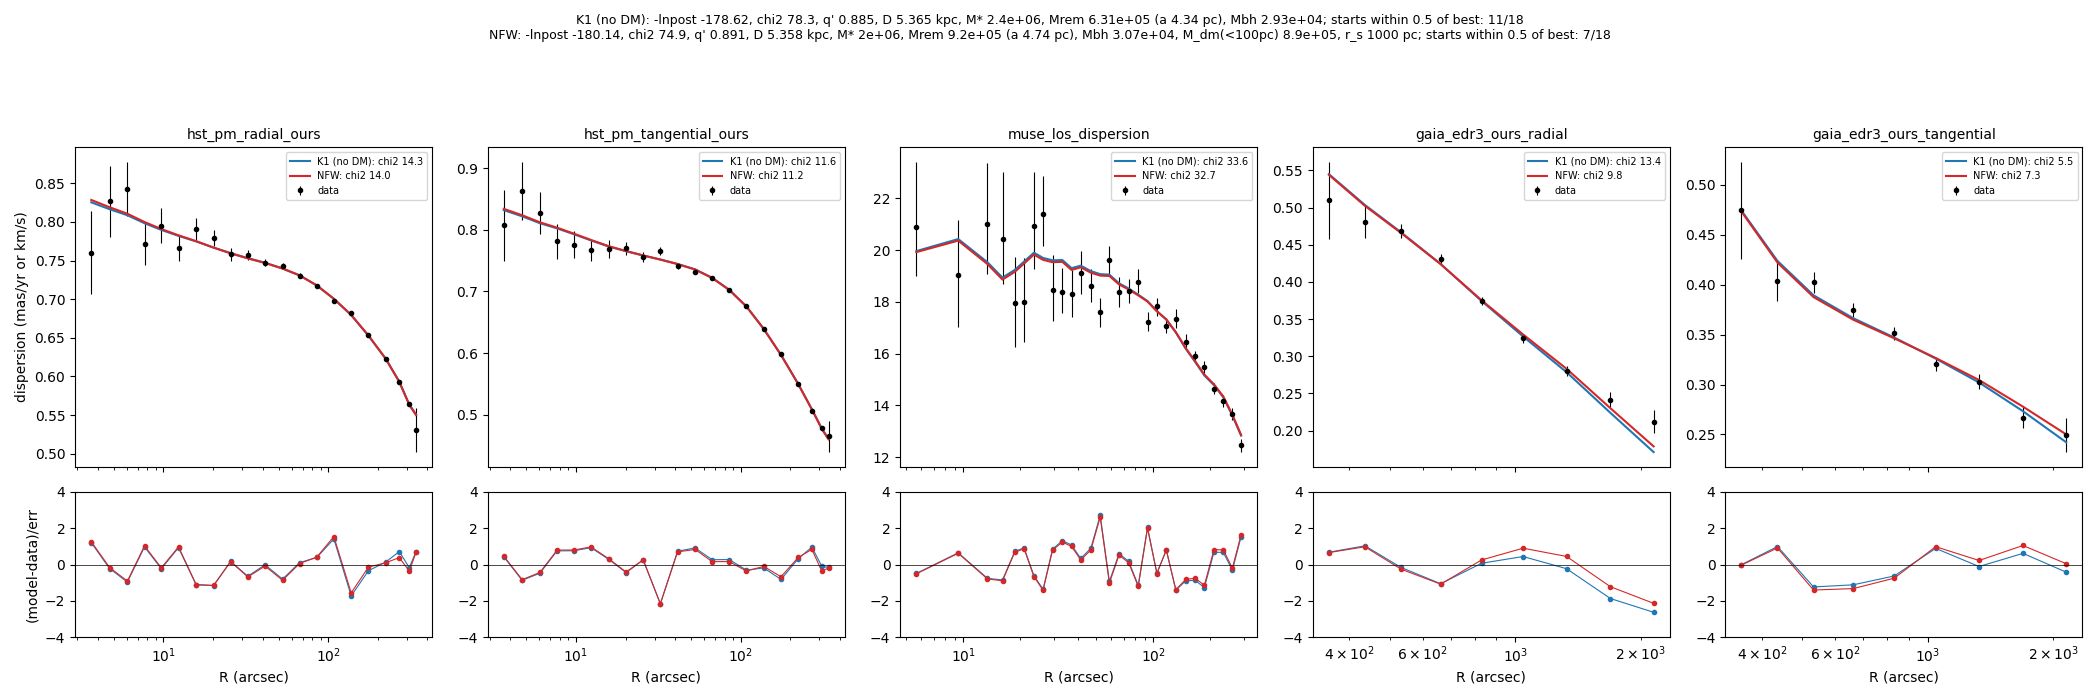
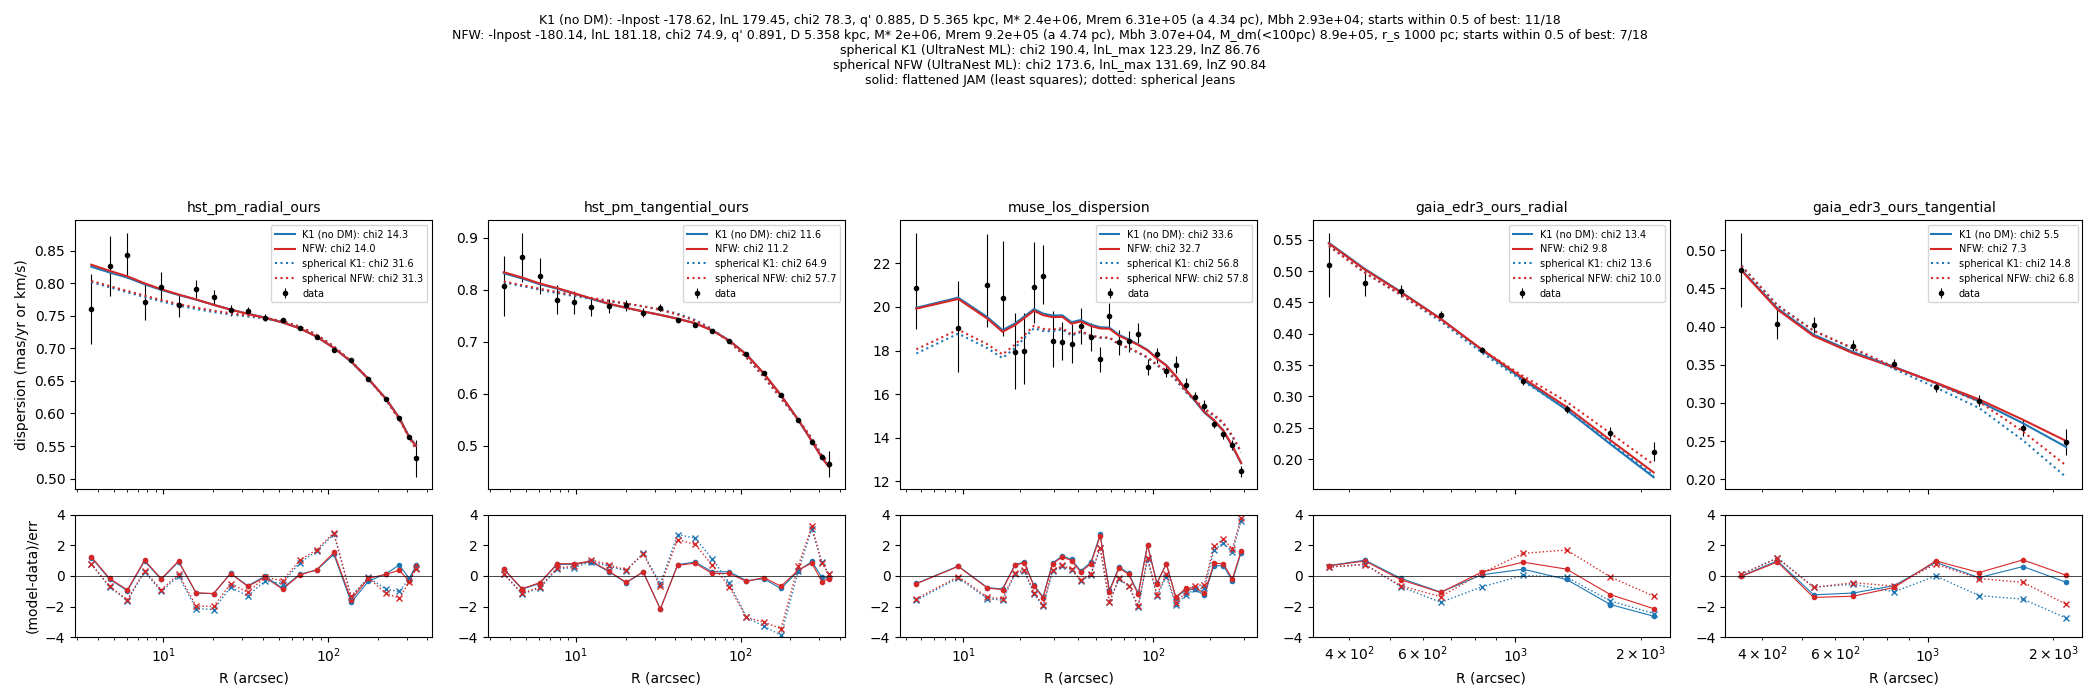
Real-data JAM report: add spherical Jeans K1/NFW ML fits and residuals

diff --git a/bin/report_jamfit_real.py b/bin/report_jamfit_real.py
@@ -1,5 +1,6 @@
 #!/usr/bin/env python3
-"""Data / model / residual plot of the real-data JAM least-squares fits, K1 vs NFW (2026-11-14).
+"""Data / model / residual plot of the real-data JAM least-squares fits, K1 vs NFW, with the spherical Jeans K1/NFW
+maximum-likelihood fits to the same data (2026-11-14).
 
 Reads results/rotation/jamfit_real_K1_lsq.json and jamfit_real_NFW_lsq.json (bin/fit_jam_halo.py --data real
 --method lsq); radii and errors come from tune_jam_to_data.Setup (the corrected real data the fits used; ~3 GB).
@@ -21,16 +22,33 @@ import matplotlib.pyplot as plt
 import numpy as np
 
 import jam_halo_models as H
+from ocen_dm.kinematics import FitProblem
+from ocen_dm.kinematics.report import load_run_metadata, problem_for
+from ocen_dm.kinematics.run_io import family_config, family_from_config
 from tune_jam_to_data import Setup
 
 FITS = {"K1 (no DM)": "jamfit_real_K1_lsq.json", "NFW": "jamfit_real_NFW_lsq.json"}
-COL = {"K1 (no DM)": "C0", "NFW": "C3"}
+COL = {"K1 (no DM)": "C0", "NFW": "C3", "sph K1": "C0", "sph NFW": "C3"}
+SPH = {"sph K1": ("K1", "jeans_K1_turnover_counts_c"), "sph NFW": ("NFW", "jeans_K2_nfw_turnover_counts_c")}
+
+
+def spherical(data):
+    """Max-likelihood predictions of the spherical Jeans fits to the same corrected data (UltraNest runs
+    results/fits/recover_real_{K1,NFW}, bin/recover_tuned_mock_nested.py --truth real)."""
+    out = {}
+    for lab, (k, run) in SPH.items():
+        fam = family_from_config(family_config(problem_for(load_run_metadata(ROOT/"results/fits"/run)).family))
+        d = ROOT/f"results/fits/recover_real_{k}"
+        pred = FitProblem(fam, data).predict(np.load(d/"ml_x.npy"))
+        out[lab] = dict(pred=pred, summary=json.loads((d/"summary.json").read_text()))
+    return out
 
 
 def main():
     S = Setup(run="jeans_K1_turnover_counts_c", models=H.jam_models)
     fits = {k: json.loads((ROOT/"results/rotation"/v).read_text()) for k, v in FITS.items()}
     profs = S.data.profiles
+    sph = spherical(S.data)
     fig, ax = plt.subplots(2, len(profs), figsize=(4.2*len(profs), 7), sharex="col",
                            gridspec_kw=dict(height_ratios=(2.2, 1)))
     for j, p in enumerate(profs):
@@ -41,6 +59,11 @@ def main():
             a.plot(p.r, m, "-", c=COL[k], label=f"{k}: chi2 {d['stats'][p.name]['chi2']:.1f}")
             res = (m-p.value)/np.where(m > p.value, p.err_hi, p.err_lo)
             b.plot(p.r, res, "o-", c=COL[k], ms=3, lw=.8)
+        for k, d in sph.items():
+            m = np.asarray(d["pred"][p.name])
+            res = (m-p.value)/np.where(m > p.value, p.err_hi, p.err_lo)
+            a.plot(p.r, m, ":", c=COL[k], lw=1.5, label=f"spherical {k[4:]}: chi2 {np.sum(res**2):.1f}")
+            b.plot(p.r, res, "x:", c=COL[k], ms=4, lw=1)
         a.set_title(p.name, fontsize=10); a.legend(fontsize=7); a.set_xscale("log")
         b.axhline(0, c="k", lw=.5); b.set_xlabel("R (arcsec)"); b.set_ylim(-4, 4)
     ax[0, 0].set_ylabel("dispersion (mas/yr or km/s)"); ax[1, 0].set_ylabel("(model-data)/err")
@@ -48,13 +71,18 @@ def main():
     for k, d in fits.items():
         t = d["theta"]
         fs = sorted(s["f"] for s in d["starts"])
-        lines.append(f"{k}: -lnpost {d['neg_lnpost']:.2f}, chi2 {d['chi2_total']:.1f}, q' {d['qobs']:.3f}, "
+        lines.append(f"{k}: -lnpost {d['neg_lnpost']:.2f}, lnL {d['lnL_total']:.2f}, chi2 {d['chi2_total']:.1f}, q' {d['qobs']:.3f}, "
                      f"D {d['D']:.3f} kpc, M* {t['M_star']:.3g}, Mrem {t['M_rem']:.3g} (a {t['a_rem']:.2f} pc), "
                      f"Mbh {t['M_bh']:.3g}" + (f", M_dm(<100pc) {t['M_dm_100']:.3g}, r_s {t['r_s']:.0f} pc"
                                                 if "M_dm_100" in t else "")
                      + f"; starts within 0.5 of best: {sum(f < fs[0]+0.5 for f in fs)}/{len(fs)}")
+    for k, d in sph.items():
+        sm = d["summary"]
+        lines.append(f"spherical {k[4:]} (UltraNest ML): chi2 {sm['chi2_ml_total']:.1f}, lnL_max {sm['lnL_max']:.2f}, "
+                     f"lnZ {sm['logz']:.2f}")
+    lines.append("solid: flattened JAM (least squares); dotted: spherical Jeans")
     fig.suptitle("\n".join(lines), fontsize=9)
-    plt.tight_layout(rect=(0, 0, 1, 0.9))
+    plt.tight_layout(rect=(0, 0, 1, 0.86))
     out = ROOT/"plots/jamfit_real_lsq_20261114.png"
     plt.savefig(out, dpi=100)
     print("\n".join(lines)); print(out)
